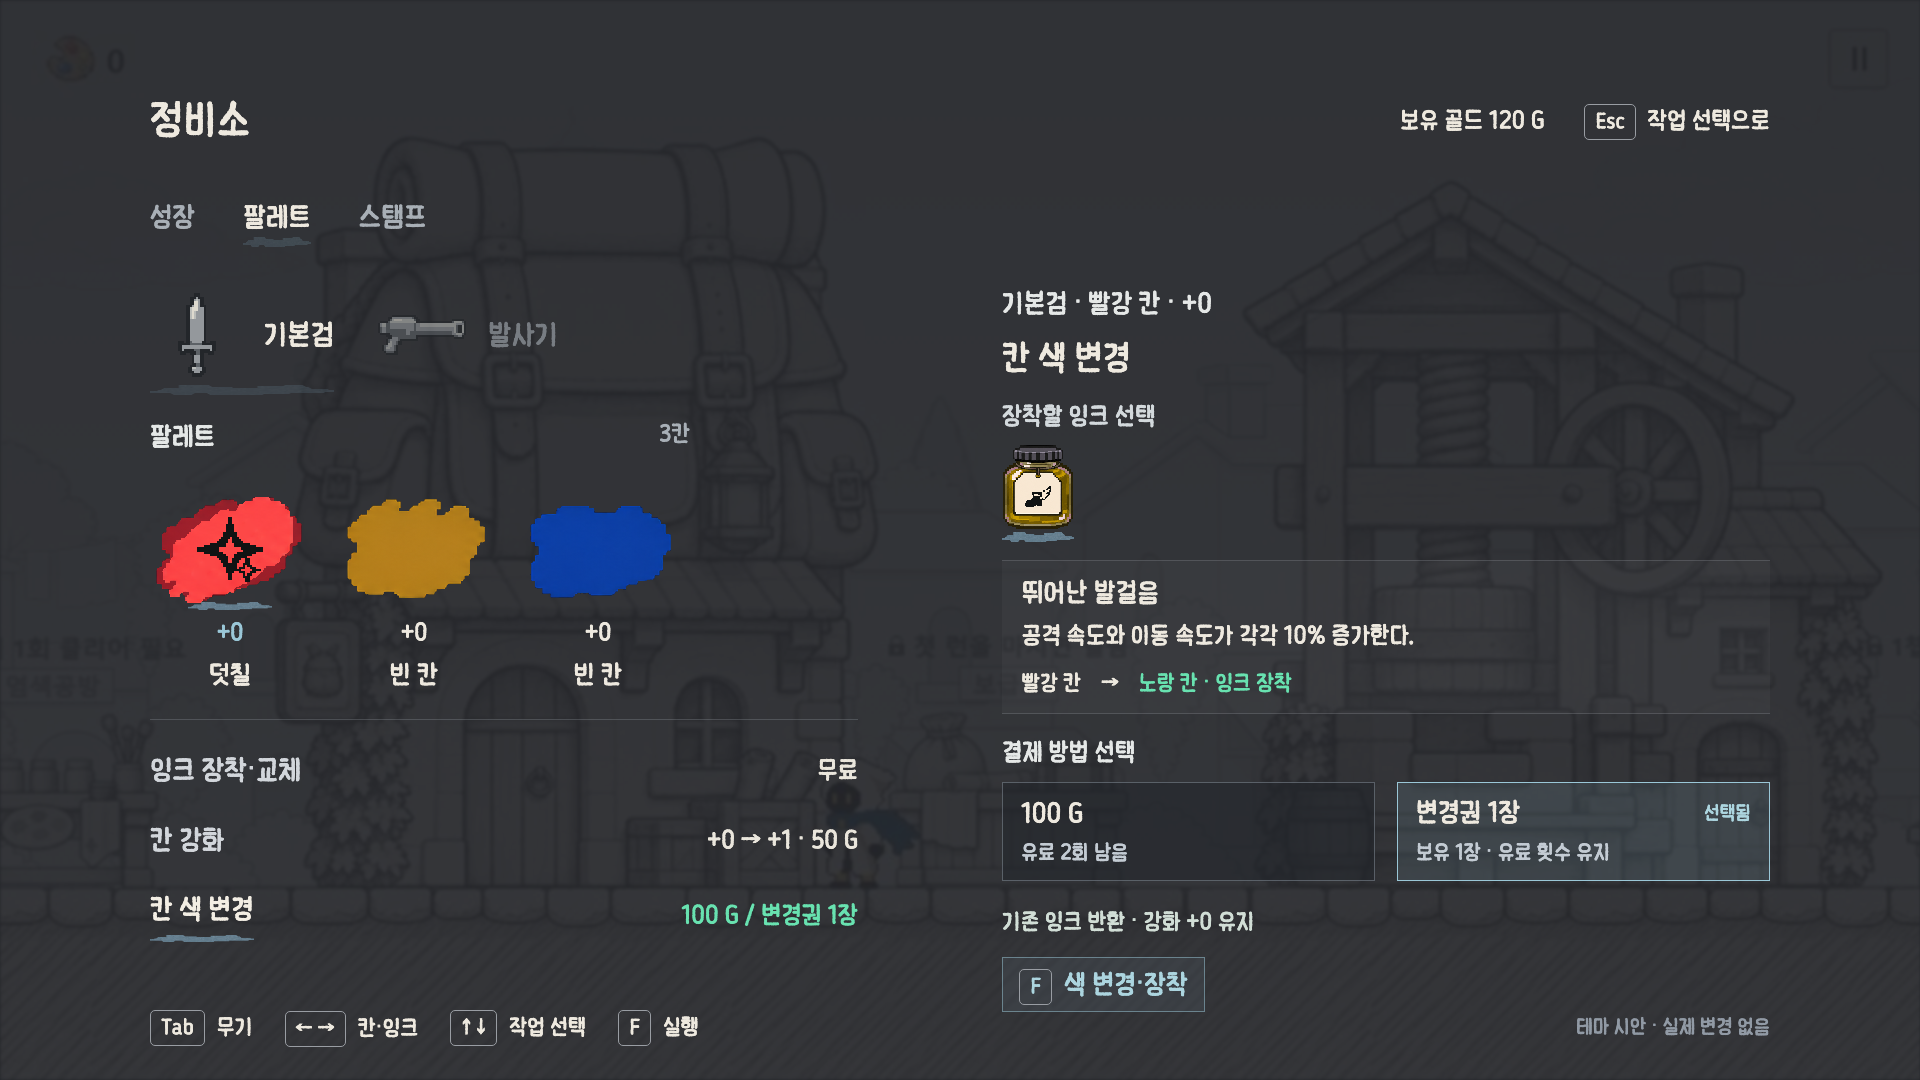
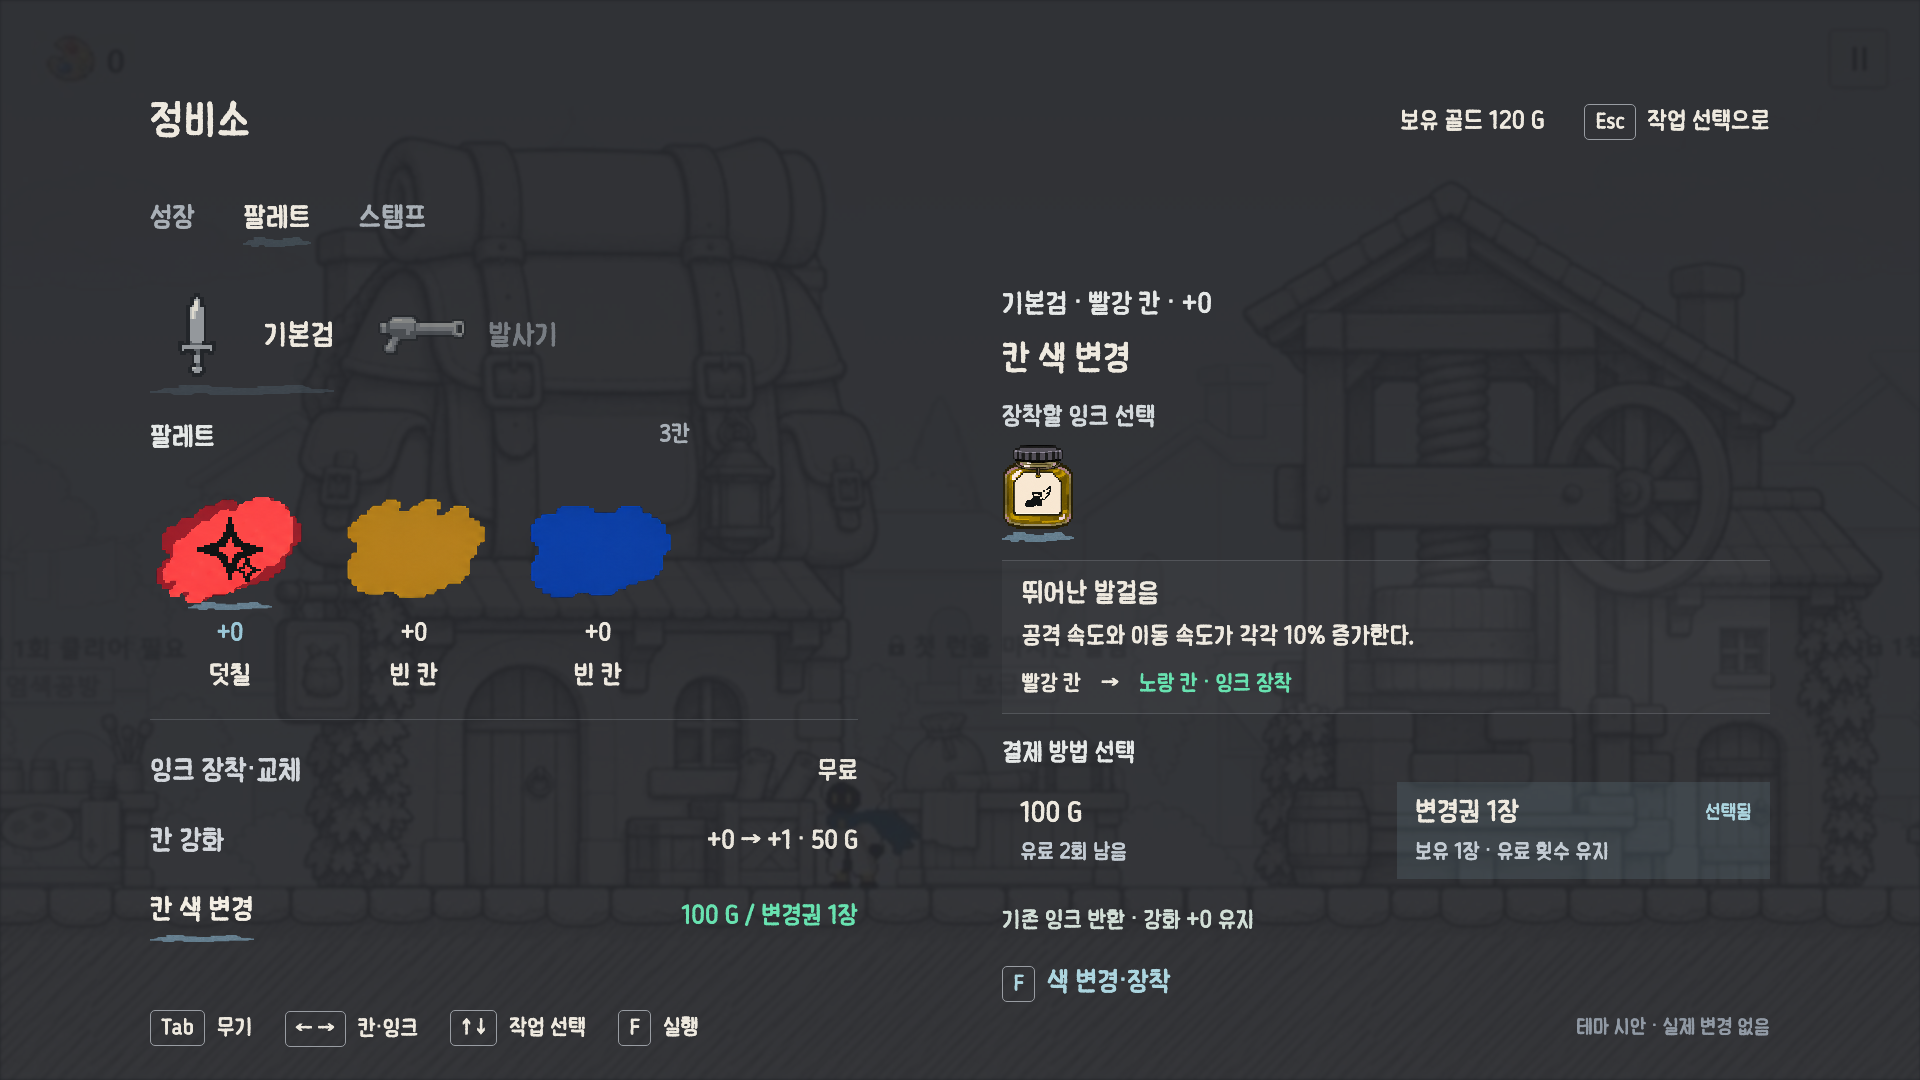
Use borderless color wash for payment selection

diff --git a/ui/work/theme/ink-pixel-v1/maintenance-palette-v1/index.html b/ui/work/theme/ink-pixel-v1/maintenance-palette-v1/index.html
@@ -68,6 +68,13 @@ body[data-mode="color"] .payment small{margin-top:10px;font-size:22px}
 body[data-mode="color"] .taskDecision{border-top:0;margin-top:24px;padding-top:0}
 body[data-mode="color"] .decisionNote{font-size:24px;margin-bottom:16px}
 body[data-mode="color"] .taskDecision>button{padding:10px 16px;border:1px solid #9ac7d780;background:#9ac7d715;font-size:28px}
+
+/* Borderless controls: only the selected payment receives a color wash. */
+body[data-mode="color"] .paymentOption{border:0;background:transparent}
+body[data-mode="color"] .paymentOption.isSelected{border:0;background:#9ac7d720}
+body[data-mode="color"] .paymentOption:hover{background:#9ac7d712}
+body[data-mode="color"] .paymentOption.isSelected:hover{background:#9ac7d72b}
+body[data-mode="color"] .taskDecision>button{border:0;background:transparent;padding:10px 0}
 </style><div class="screen"><div class="world"></div><main><header><h1>정비소</h1><aside><span>보유 골드 120 G</span><span><kbd>Esc</kbd><span id="escLabel">닫기</span></span></aside></header><nav><a href="../maintenance-set-v1/index.html?view=growth">성장</a><span class="active mark">팔레트</span><span>스탬프</span></nav><div class="cols"><section><div class="weapons" id="weapons"></div><div class="paletteHead"><span class="label">팔레트</span><span class="label" id="slotCount">3칸</span></div><div class="slots" id="slots"></div><div class="services"><button onclick="showService(0)"><span class="serviceTitle">칸 강화</span><span class="serviceValue"><span>+0</span><span class="serviceArrow">→</span><span class="serviceGain">+1</span></span><span class="serviceCost"><span class="costLabel">비용</span><span>50 G</span></span></button><button onclick="showService(1)"><span class="serviceTitle">칸 색 변경</span><span class="serviceValue changeValue">칸 색 변경</span><span class="serviceCost"><span class="costLabel">비용</span><span>변경권 1장</span></span></button></div></section><section id="detail"></section></div></main><footer class="foot"><span><kbd>Tab</kbd>무기</span><span><kbd>← →</kbd>칸·잉크</span><span><kbd>↑ ↓</kbd>작업 선택</span><span><kbd>F</kbd><span id="fLabel">잉크 고르기</span></span><span class="note">테마 시안 · 실제 변경 없음</span></footer></div><script>
 const A='../screen-set-v6/assets/';const inks=[{id:'ink3_red_01',name:'덧칠',color:'red',desc:'원공격 피해의 20%인 추가타 1회를 가한다.'},{id:'ink3_red_02',name:'집중 공격',color:'red',desc:'같은 몬스터를 연달아 때릴 때마다 그 몬스터에게 주는 피해가 4%씩 오른다. 최대 5중첩(20%)이다.'},{id:'ink3_red_04',name:'터지는 잉크',color:'red',desc:'표식을 터트린 몬스터에게 기준 피해 60%인 추가타 1회를 가한다.'},{id:'ink3_yellow_02',name:'뛰어난 발걸음',color:'yellow',desc:'공격 속도와 이동 속도가 각각 10% 증가한다.'},{id:'ink3_blue_01',name:'범위 증폭',color:'blue',desc:'공격 범위(반경)가 20% 증가한다.'}];const colorNames={red:'빨강',yellow:'노랑',blue:'파랑',green:'초록',purple:'보라'};const expanded=new URLSearchParams(location.search).get('slots')==='5';const colors=expanded?['red','yellow','blue','green','purple']:['red','yellow','blue'];const sets=expanded?[[0,null,null,null,null],[null,null,4,null,null]]:[[0,null,null],[null,null,4]];let mode=new URLSearchParams(location.search).get('state')==='ink'?'ink':'slot',slot=mode==='ink'?0:new URLSearchParams(location.search).get('state')==='slot'?1:-1,weapon=0,candidate=1;
 const slotStats=sets.map(row=>row.map(()=>({level:0})));

diff --git a/ui/work/theme/ink-pixel-v1/maintenance-palette-v1/README.md b/ui/work/theme/ink-pixel-v1/maintenance-palette-v1/README.md
@@ -71,3 +71,6 @@ F/버튼으로 시안 메모리 안에서 골드와 레벨 갱신, 부족/최대
 
 ### 설명/선택 영역 시각 구분
 장착할 잉크 선택 → 읽기 영역(이름·효과·변경 색, 은은한 배경과 얇은 상하 선) → 결제 방법 버튼 → 반환 안내/실행. 결제 버튼은 실제 선택 상태 aria-pressed와 '선택됨'을 함께 표시한다. 전체 패널 박스화 없이 조작 부분만 버튼 형태로 구분. 중앙 144px 유지. 골드/변경권/960×540 렌더 확인. 도형/배경 처리는 레이아웃 검토용 CSS이며 새로운 이미지 에셋 제작은 아님.
+
+### 박스 테두리 제거
+결제 버튼 테두리와 미선택 배경 제거. 선택한 결제 영역에만 옅은 푸른 색 면을 유지. 실행 버튼도 프레임 제거. 설명 영역의 얇은 상하선 및 중앙 간격 유지. 골드/변경권과 축소 화면 렌더 확인.
